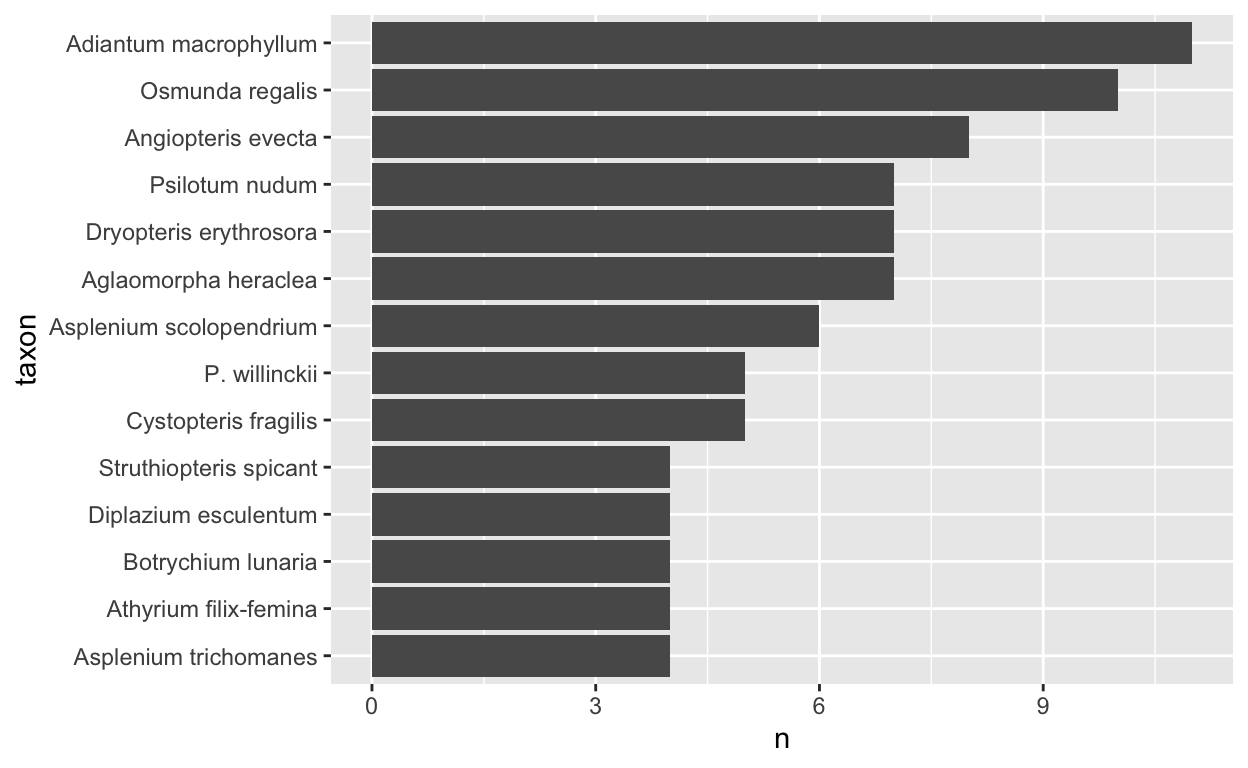
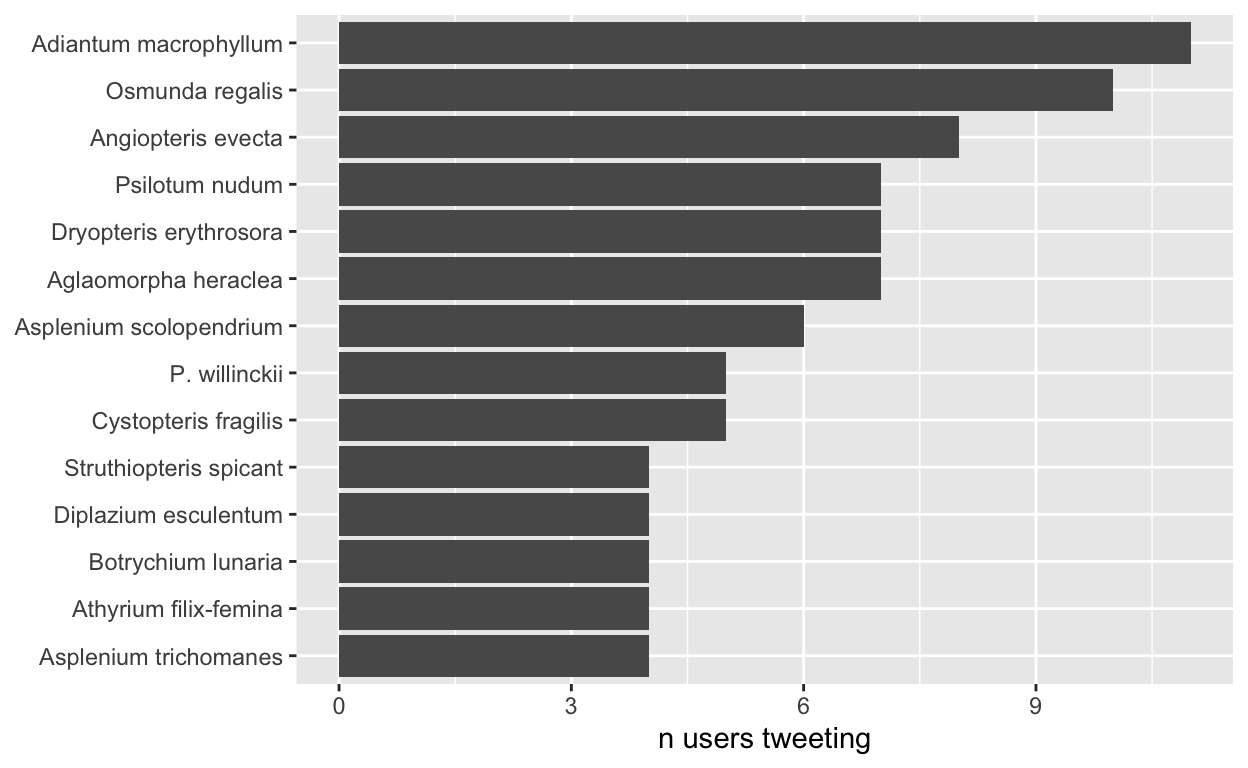
Update fernfriday post

diff --git a/_posts/2022-01-24_friday-ferns-2021/index.html b/_posts/2022-01-24_friday-ferns-2021/index.html
@@ -121,12 +121,12 @@ code span.wa { color: #5e5e5e; font-style: italic; } /* Warning */
   <!--radix_placeholder_rmarkdown_metadata-->
 
   <script type="text/json" id="radix-rmarkdown-metadata">
-  {"type":"list","attributes":{"names":{"type":"character","attributes":{},"value":["title","description","author","date","preview","creative_commons","citation_url","repository_url","output","params","editor_options","draft"]}},"value":[{"type":"character","attributes":{},"value":["#fernfriday 2021"]},{"type":"character","attributes":{},"value":["In which I answer the burning question on everybody's minds: what was\nthe most popular fern of 2021??\n"]},{"type":"list","attributes":{},"value":[{"type":"list","attributes":{"names":{"type":"character","attributes":{},"value":["first_name","last_name","url","affiliation","affiliation_url","orcid_id"]}},"value":[{"type":"character","attributes":{},"value":["Joel"]},{"type":"character","attributes":{},"value":["Nitta"]},{"type":"character","attributes":{},"value":["https://joelnitta.com"]},{"type":"character","attributes":{},"value":["University of Tokyo"]},{"type":"character","attributes":{},"value":["http://iwasakilab.k.u-tokyo.ac.jp"]},{"type":"character","attributes":{},"value":["0000-0003-4719-7472"]}]}]},{"type":"character","attributes":{},"value":["2022-01-24"]},{"type":"character","attributes":{},"value":["img/new-zealand-fantail-3729278_960_720.jpg"]},{"type":"character","attributes":{},"value":["CC BY"]},{"type":"character","attributes":{},"value":["https://joelnitta.com/friday-ferns-2021"]},{"type":"character","attributes":{},"value":["https://github.com/joelnitta/joelnitta-home"]},{"type":"list","attributes":{"names":{"type":"character","attributes":{},"value":["distill::distill_article"]}},"value":[{"type":"list","attributes":{"names":{"type":"character","attributes":{},"value":["self_contained","toc","toc_depth"]}},"value":[{"type":"logical","attributes":{},"value":[false]},{"type":"logical","attributes":{},"value":[true]},{"type":"integer","attributes":{},"value":[3]}]}]},{"type":"list","attributes":{"names":{"type":"character","attributes":{},"value":["slug","date","repo","site"]}},"value":[{"type":"character","attributes":{},"value":["friday-ferns-2021"]},{"type":"character","attributes":{},"value":["2022-01-24"]},{"type":"character","attributes":{},"value":["joelnitta/joelnitta-home"]},{"type":"character","attributes":{},"value":["https://joelnitta.com"]}]},{"type":"list","attributes":{"names":{"type":"character","attributes":{},"value":["chunk_output_type"]}},"value":[{"type":"character","attributes":{},"value":["console"]}]},{"type":"logical","attributes":{},"value":[true]}]}
+  {"type":"list","attributes":{"names":{"type":"character","attributes":{},"value":["title","description","author","date","preview","creative_commons","citation_url","repository_url","output","params","editor_options","draft"]}},"value":[{"type":"character","attributes":{},"value":["#fernfriday 2021"]},{"type":"character","attributes":{},"value":["In which I answer the burning question on everybody's minds: what was\nthe most popular fern of 2021??\n"]},{"type":"list","attributes":{},"value":[{"type":"list","attributes":{"names":{"type":"character","attributes":{},"value":["first_name","last_name","url","affiliation","affiliation_url","orcid_id"]}},"value":[{"type":"character","attributes":{},"value":["Joel"]},{"type":"character","attributes":{},"value":["Nitta"]},{"type":"character","attributes":{},"value":["https://joelnitta.com"]},{"type":"character","attributes":{},"value":["University of Tokyo"]},{"type":"character","attributes":{},"value":["http://iwasakilab.k.u-tokyo.ac.jp"]},{"type":"character","attributes":{},"value":["0000-0003-4719-7472"]}]}]},{"type":"character","attributes":{},"value":["2022-01-24"]},{"type":"character","attributes":{},"value":["img/new-zealand-fantail-3729278_960_720.jpg"]},{"type":"character","attributes":{},"value":["CC BY"]},{"type":"character","attributes":{},"value":["https://joelnitta.com/friday-ferns-2021"]},{"type":"character","attributes":{},"value":["https://github.com/joelnitta/joelnitta-home"]},{"type":"list","attributes":{"names":{"type":"character","attributes":{},"value":["distill::distill_article"]}},"value":[{"type":"list","attributes":{"names":{"type":"character","attributes":{},"value":["self_contained","toc","toc_depth"]}},"value":[{"type":"logical","attributes":{},"value":[false]},{"type":"logical","attributes":{},"value":[true]},{"type":"integer","attributes":{},"value":[3]}]}]},{"type":"list","attributes":{"names":{"type":"character","attributes":{},"value":["slug","date","repo","site"]}},"value":[{"type":"character","attributes":{},"value":["friday-ferns-2021"]},{"type":"character","attributes":{},"value":["2022-01-24"]},{"type":"character","attributes":{},"value":["joelnitta/joelnitta-home"]},{"type":"character","attributes":{},"value":["https://joelnitta.com"]}]},{"type":"list","attributes":{"names":{"type":"character","attributes":{},"value":["chunk_output_type"]}},"value":[{"type":"character","attributes":{},"value":["console"]}]},{"type":"logical","attributes":{},"value":[false]}]}
   </script>
   <!--/radix_placeholder_rmarkdown_metadata-->
   
   <script type="text/json" id="radix-resource-manifest">
-  {"type":"character","attributes":{},"value":["ff-2021-tweet-content.txt","ff-2021-tweet-content.txt_gntagger/input.txt","ff-2021-tweet-content.txt_gntagger/meta.json","ff-2021-tweet-content.txt_gntagger/names.json","ff-2021-tweets.json","gntagger","img/gntagger.png","img/new-zealand-fantail-3729278_960_720.jpg","index_files/anchor-4.2.2/anchor.min.js","index_files/bowser-1.9.3/bowser.min.js","index_files/clipboard-2.0.6/clipboard.min.js","index_files/distill-2.2.21/template.v2.js","index_files/figure-html5/hannah-tweet-1.png","index_files/figure-html5/top-species-1.png","index_files/figure-html5/top-species-users-1.png","index_files/figure-html5/unnamed-chunk-1-1.png","index_files/font-awesome-5.1.0/css/all.css","index_files/font-awesome-5.1.0/css/v4-shims.css","index_files/font-awesome-5.1.0/webfonts/fa-brands-400.eot","index_files/font-awesome-5.1.0/webfonts/fa-brands-400.svg","index_files/font-awesome-5.1.0/webfonts/fa-brands-400.ttf","index_files/font-awesome-5.1.0/webfonts/fa-brands-400.woff","index_files/font-awesome-5.1.0/webfonts/fa-brands-400.woff2","index_files/font-awesome-5.1.0/webfonts/fa-regular-400.eot","index_files/font-awesome-5.1.0/webfonts/fa-regular-400.svg","index_files/font-awesome-5.1.0/webfonts/fa-regular-400.ttf","index_files/font-awesome-5.1.0/webfonts/fa-regular-400.woff","index_files/font-awesome-5.1.0/webfonts/fa-regular-400.woff2","index_files/font-awesome-5.1.0/webfonts/fa-solid-900.eot","index_files/font-awesome-5.1.0/webfonts/fa-solid-900.svg","index_files/font-awesome-5.1.0/webfonts/fa-solid-900.ttf","index_files/font-awesome-5.1.0/webfonts/fa-solid-900.woff","index_files/font-awesome-5.1.0/webfonts/fa-solid-900.woff2","index_files/header-attrs-2.11/header-attrs.js","index_files/jquery-3.6.0/jquery-3.6.0.js","index_files/jquery-3.6.0/jquery-3.6.0.min.js","index_files/jquery-3.6.0/jquery-3.6.0.min.map","index_files/popper-2.6.0/popper.min.js","index_files/tippy-6.2.7/tippy-bundle.umd.min.js","index_files/tippy-6.2.7/tippy-light-border.css","index_files/tippy-6.2.7/tippy.css","index_files/tippy-6.2.7/tippy.umd.min.js","index_files/twitter-widget-0.0.1/widgets.js","index_files/webcomponents-2.0.0/webcomponents.js","index_files/xaringanExtra-clipboard-0.2.6/xaringanExtra-clipboard.css","index_files/xaringanExtra-clipboard-0.2.6/xaringanExtra-clipboard.js"]}
+  {"type":"character","attributes":{},"value":["ff-2021-tweet-content.txt","ff-2021-tweet-content.txt_gntagger/input.txt","ff-2021-tweet-content.txt_gntagger/meta.json","ff-2021-tweet-content.txt_gntagger/names.json","ff-2021-tweets.json","gntagger","img/gntagger.png","img/new-zealand-fantail-3729278_960_720.jpg","index_files/anchor-4.2.2/anchor.min.js","index_files/bowser-1.9.3/bowser.min.js","index_files/clipboard-2.0.6/clipboard.min.js","index_files/distill-2.2.21/template.v2.js","index_files/figure-html5/hannah-tweet-1.png","index_files/figure-html5/prolific-tweeters-1.png","index_files/figure-html5/species-distribution-1.png","index_files/figure-html5/top-genera-users-1.png","index_files/figure-html5/top-species-1.png","index_files/figure-html5/top-species-users-1.png","index_files/figure-html5/unnamed-chunk-1-1.png","index_files/font-awesome-5.1.0/css/all.css","index_files/font-awesome-5.1.0/css/v4-shims.css","index_files/font-awesome-5.1.0/webfonts/fa-brands-400.eot","index_files/font-awesome-5.1.0/webfonts/fa-brands-400.svg","index_files/font-awesome-5.1.0/webfonts/fa-brands-400.ttf","index_files/font-awesome-5.1.0/webfonts/fa-brands-400.woff","index_files/font-awesome-5.1.0/webfonts/fa-brands-400.woff2","index_files/font-awesome-5.1.0/webfonts/fa-regular-400.eot","index_files/font-awesome-5.1.0/webfonts/fa-regular-400.svg","index_files/font-awesome-5.1.0/webfonts/fa-regular-400.ttf","index_files/font-awesome-5.1.0/webfonts/fa-regular-400.woff","index_files/font-awesome-5.1.0/webfonts/fa-regular-400.woff2","index_files/font-awesome-5.1.0/webfonts/fa-solid-900.eot","index_files/font-awesome-5.1.0/webfonts/fa-solid-900.svg","index_files/font-awesome-5.1.0/webfonts/fa-solid-900.ttf","index_files/font-awesome-5.1.0/webfonts/fa-solid-900.woff","index_files/font-awesome-5.1.0/webfonts/fa-solid-900.woff2","index_files/header-attrs-2.11/header-attrs.js","index_files/jquery-3.6.0/jquery-3.6.0.js","index_files/jquery-3.6.0/jquery-3.6.0.min.js","index_files/jquery-3.6.0/jquery-3.6.0.min.map","index_files/popper-2.6.0/popper.min.js","index_files/tippy-6.2.7/tippy-bundle.umd.min.js","index_files/tippy-6.2.7/tippy-light-border.css","index_files/tippy-6.2.7/tippy.css","index_files/tippy-6.2.7/tippy.umd.min.js","index_files/twitter-widget-0.0.1/widgets.js","index_files/webcomponents-2.0.0/webcomponents.js","index_files/xaringanExtra-clipboard-0.2.6/xaringanExtra-clipboard.css","index_files/xaringanExtra-clipboard-0.2.6/xaringanExtra-clipboard.js"]}
   </script>
   <!--radix_placeholder_navigation_in_header-->
   <!--/radix_placeholder_navigation_in_header-->
@@ -1512,7 +1512,7 @@ code span.wa { color: #5e5e5e; font-style: italic; } /* Warning */
 <li><a href="#extracting-scientific-names-with-gntagger">Extracting scientific names with gntagger</a>
 <ul>
 <li><a href="#tagging-names">Tagging names</a></li>
-<li><a href="#reading-gntagger-output-back-into-r">Reading gntagger output back into R</a></li>
+<li><a href="#loading-gntagger-output-into-r">Loading gntagger output into R</a></li>
 </ul></li>
 <li><a href="#data-analysis-finally">Data analysis (finally!)</a></li>
 </ul>
@@ -1548,6 +1548,7 @@ Figure 1: Image by <a href="https://pixabay.com/users/jewelie108-2884314/">jewel
 <div class="layout-chunk" data-layout="l-body">
 <div class="sourceCode">
 <pre class="sourceCode r"><code class="sourceCode r"><span class='kw'><a href='https://rdrr.io/r/base/library.html'>library</a></span><span class='op'>(</span><span class='va'><a href='https://tidyverse.tidyverse.org'>tidyverse</a></span><span class='op'>)</span>
+<span class='kw'><a href='https://rdrr.io/r/base/library.html'>library</a></span><span class='op'>(</span><span class='va'><a href='https://github.com/slowkow/ggrepel'>ggrepel</a></span><span class='op'>)</span>
 <span class='kw'><a href='https://rdrr.io/r/base/library.html'>library</a></span><span class='op'>(</span><span class='va'><a href='https://github.com/sfirke/janitor'>janitor</a></span><span class='op'>)</span>
 <span class='kw'><a href='https://rdrr.io/r/base/library.html'>library</a></span><span class='op'>(</span><span class='va'><a href='https://github.com/dgrtwo/fuzzyjoin'>fuzzyjoin</a></span><span class='op'>)</span>
 </code></pre>
@@ -1712,44 +1713,49 @@ $ cashtags         &lt;lgl&gt; NA, NA, NA, NA, NA, NA, NA, NA, NA, NA,…</code>
 <pre><code>gntagger ff-2021-tweet-content.txt</code></pre>
 <p>You should see a screen that looks like this:</p>
 <p><img src="img/gntagger.png" /></p>
-<p><code>gntagger</code> takes a “android” approach to tagging species names. It first uses its own algorithm to automatically identify all possible species names, then has a very simple user interface (UI) so the user can confirm or reject each candidate name rapidly. According to the <a href="https://github.com/gnames/gntagger#gntagger-"><code>gntagger</code> docs</a>, you should be able to get through about “4000 names spread over 600 pages in about 2 hours”.</p>
+<p><code>gntagger</code> takes a “android” approach to tagging species names. It first uses its own algorithm to automatically identify all possible species names, then <a href="https://github.com/gnames/gntagger#user-interface">it has a simple user interface</a> so the user can confirm or reject each candidate name rapidly. According to the <a href="https://github.com/gnames/gntagger#gntagger-"><code>gntagger</code> docs</a>, you should be able to get through about “4000 names spread over 600 pages in about 2 hours”. It took me around 10–15 min. for this dataset, which included 664 candidate names to process.</p>
 <p>It saves the intermediate output to a folder named after the input file, in this case <code>ff-2021-tweet-content.txt_gntagger</code>.</p>
-<h3 id="reading-gntagger-output-back-into-r">Reading gntagger output back into R</h3>
+<h3 id="loading-gntagger-output-into-r">Loading gntagger output into R</h3>
 <p>I recommend trying out <code>gntagger</code> to see how it works—it definitely looks great for parsing names from old literature!</p>
 <p>But you don’t have to go through all of the names yourself. In fact, <code>gntagger</code>’s initial “guesses” are pretty darn good, and can be used as-is for a rough analysis. Or, you can download the cleaned up version from FIXME: ADD LINK.</p>
 <p>Let’s read in the <code>gntagger</code> results, which are again JSON:</p>
 <div class="layout-chunk" data-layout="l-body">
 <div class="sourceCode">
-<pre class="sourceCode r"><code class="sourceCode r"><span class='va'>ff_species_raw</span> <span class='op'>&lt;-</span> <span class='fu'>jsonlite</span><span class='fu'>::</span><span class='fu'><a href='https://rdrr.io/pkg/jsonlite/man/fromJSON.html'>fromJSON</a></span><span class='op'>(</span><span class='st'>"ff-2021-tweet-content.txt_gntagger/names.json"</span><span class='op'>)</span>
+<pre class="sourceCode r"><code class="sourceCode r"><span class='va'>ff_taxa_raw</span> <span class='op'>&lt;-</span> <span class='fu'>jsonlite</span><span class='fu'>::</span><span class='fu'><a href='https://rdrr.io/pkg/jsonlite/man/fromJSON.html'>fromJSON</a></span><span class='op'>(</span><span class='st'>"ff-2021-tweet-content.txt_gntagger/names.json"</span><span class='op'>)</span>
 
-<span class='va'>ff_species</span> <span class='op'>&lt;-</span> <span class='va'>ff_species_raw</span><span class='op'>[[</span><span class='st'>"names"</span><span class='op'>]</span><span class='op'>]</span> <span class='op'>%&gt;%</span> 
+<span class='va'>ff_taxa</span> <span class='op'>&lt;-</span> <span class='va'>ff_taxa_raw</span><span class='op'>[[</span><span class='st'>"names"</span><span class='op'>]</span><span class='op'>]</span> <span class='op'>%&gt;%</span> 
   <span class='fu'>as_tibble</span><span class='op'>(</span><span class='op'>)</span> <span class='op'>%&gt;%</span>
     <span class='co'># I'll call the name output by gntagger "taxon", since</span>
   <span class='co'># not all of them are species</span>
-  <span class='fu'>select</span><span class='op'>(</span><span class='va'>type</span>, taxon <span class='op'>=</span> <span class='va'>name</span>, <span class='va'>start</span>, <span class='va'>end</span><span class='op'>)</span>
+  <span class='fu'>select</span><span class='op'>(</span><span class='va'>type</span>, <span class='va'>annotation</span>, taxon <span class='op'>=</span> <span class='va'>name</span>, <span class='va'>start</span>, <span class='va'>end</span><span class='op'>)</span>
 
-<span class='va'>ff_species</span>
+<span class='va'>ff_taxa</span>
 </code></pre>
 </div>
 </div>
 <div class="layout-chunk" data-layout="l-body">
-<pre><code># A tibble: 664 × 4
-   type             taxon                  start   end
-   &lt;chr&gt;            &lt;chr&gt;                  &lt;int&gt; &lt;int&gt;
- 1 Binomial         Elaphoglossum crinitum   430   452
- 2 Binomial         Aglaomorpha heraclea    1230  1250
- 3 Binomial         Arachniodes standishii  1325  1347
- 4 Uninomial        Platycerium             1398  1409
- 5 PossibleBinomial P. alcicorne            1562  1574
- 6 Binomial         Angiopteris evecta      2457  2475
- 7 Binomial         Dryopteris shibipedis   2508  2529
- 8 Uninomial        Pyrrosia                2914  2923
- 9 Binomial         Doodia australis        3161  3178
-10 Binomial         Lastreopsis hispida     3189  3209
-# … with 654 more rows</code></pre>
+<pre><code># A tibble: 630 × 5
+   type             annotation taxon                  start   end
+   &lt;chr&gt;            &lt;chr&gt;      &lt;chr&gt;                  &lt;int&gt; &lt;int&gt;
+ 1 Binomial         Accepted   Elaphoglossum crinitum   430   452
+ 2 Binomial         Accepted   Aglaomorpha heraclea    1230  1250
+ 3 Binomial         Accepted   Arachniodes standishii  1325  1347
+ 4 Uninomial        Genus      Platycerium             1398  1409
+ 5 PossibleBinomial Accepted   P. alcicorne            1562  1574
+ 6 Binomial         Accepted   Angiopteris evecta      2457  2475
+ 7 Binomial         Accepted   Dryopteris shibipedis   2508  2529
+ 8 Uninomial        Genus      Pyrrosia                2914  2923
+ 9 Binomial         Accepted   Doodia australis        3161  3178
+10 Binomial         Accepted   Lastreopsis hispida     3189  3209
+# … with 620 more rows</code></pre>
 </div>
-<p>The tricky part here is that <code>gntagger</code> outputs location by character position, not line.</p>
-<p>So we need to figure out which characters match which lines, which in turn match tweets…</p>
+<p>A bit about the column names we are reading in from <code>gntagger</code>:</p>
+<ul>
+<li><code>type</code> is something automatically defined by <code>gntagger</code>. I’m not quite sure what it means… but I’m guessing “Binomial” indicates that the name is a species.</li>
+<li><code>annotation</code> is the annotation I selected during the tagging process. It includes values “Accepted”, “Genus”, “NotName”, “Species”, and “Uninomial”. It wasn’t totally clear to me how to apply these during the tagging part. I mostly just hit the forward arrow for names that looked like species, so those are annotated as “Accepted”. Towards the end I noticed I could select “Species”, so a few are annotated as “Species” instead of “Accepted” <a href="#fn6" class="footnote-ref" id="fnref6" role="doc-noteref"><sup>6</sup></a>.</li>
+<li><code>start</code> and <code>end</code> indicate the character position in the raw text matching the start and end of the name.</li>
+</ul>
+<p>The next step is to use the <code>start</code> and <code>end</code> fields to match species names to tweets. For that, we’ll need a tibble with the start and end position of each tweet.</p>
 <div class="layout-chunk" data-layout="l-body">
 <div class="sourceCode">
 <pre class="sourceCode r"><code class="sourceCode r"><span class='va'>ff_tweets_start_end</span> <span class='op'>&lt;-</span>
@@ -1788,13 +1794,13 @@ $ cashtags         &lt;lgl&gt; NA, NA, NA, NA, NA, NA, NA, NA, NA, NA,…</code>
 <p>Now we can use the <code>fuzzyjoin</code> package to join the species names to the tweets by position.</p>
 <div class="layout-chunk" data-layout="l-body">
 <div class="sourceCode">
-<pre class="sourceCode r"><code class="sourceCode r"><span class='va'>ff_tweets_species</span> <span class='op'>&lt;-</span>
+<pre class="sourceCode r"><code class="sourceCode r"><span class='va'>ff_tweets_taxa</span> <span class='op'>&lt;-</span>
 <span class='va'>ff_tweets</span> <span class='op'>%&gt;%</span>
   <span class='fu'>left_join</span><span class='op'>(</span><span class='va'>ff_tweets_start_end</span>, by <span class='op'>=</span> <span class='st'>"id"</span><span class='op'>)</span> <span class='op'>%&gt;%</span>
   <span class='co'># interval_left_join requires the Bioconductor IRanges package to be installed</span>
   <span class='co'># and joins by columns "start" and "end" by default</span>
   <span class='fu'><a href='https://rdrr.io/pkg/fuzzyjoin/man/interval_join.html'>interval_left_join</a></span><span class='op'>(</span>
-    <span class='va'>ff_species</span>
+    <span class='va'>ff_taxa</span>
   <span class='op'>)</span> <span class='op'>%&gt;%</span>
   <span class='fu'>select</span><span class='op'>(</span><span class='op'>-</span><span class='fu'>matches</span><span class='op'>(</span><span class='st'>"start|end"</span><span class='op'>)</span><span class='op'>)</span> <span class='op'>%&gt;%</span>
   <span class='co'># Drop tweets without any fern names mentioned</span>
@@ -1805,10 +1811,10 @@ $ cashtags         &lt;lgl&gt; NA, NA, NA, NA, NA, NA, NA, NA, NA, NA,…</code>
 <p>Let’s take a peek at the results.</p>
 <div class="layout-chunk" data-layout="l-body">
 <div class="sourceCode">
-<pre class="sourceCode r"><code class="sourceCode r"><span class='fu'>select</span><span class='op'>(</span><span class='va'>ff_tweets_species</span>, <span class='va'>content</span>, <span class='va'>taxon</span><span class='op'>)</span>
+<pre class="sourceCode r"><code class="sourceCode r"><span class='fu'>select</span><span class='op'>(</span><span class='va'>ff_tweets_taxa</span>, <span class='va'>content</span>, <span class='va'>taxon</span><span class='op'>)</span>
 </code></pre>
 </div>
-<pre><code># A tibble: 761 × 2
+<pre><code># A tibble: 722 × 2
    content                                            taxon           
    &lt;chr&gt;                                              &lt;chr&gt;           
  1 &quot;Wishing all a happy, safe and peacefull #FernFri… Elaphoglossum c…
@@ -1821,52 +1827,149 @@ $ cashtags         &lt;lgl&gt; NA, NA, NA, NA, NA, NA, NA, NA, NA, NA,…</code>
  8 &quot;シビイタチシダ Dryopteris shibipedis #Fernfriday… Dryopteris shib…
  9 &quot;✌\n\n #Fernfriday https://t.co/LdQgp4Wcw0&quot;        Dryopteris shib…
 10 &quot;I told my friend that if I ever had a kid, I wou… Pyrrosia        
-# … with 751 more rows</code></pre>
+# … with 712 more rows</code></pre>
 </div>
-<p>Yay! We’ve got species names mapped to tweets (and user ID, etc). Notice that some tweets now appear duplicated, since our data are have one row per species mentioned, and some tweets may include multiple species.</p>
+<p>Yay! We’ve got fern names mapped to tweets (and user ID, etc). Notice that some tweets now appear duplicated, since our data are have one row per fern name mentioned, and some tweets may include multiple names.</p>
 <h2 id="data-analysis-finally">Data analysis (finally!)</h2>
 <p>OK, we can finally analyze the data and see <strong>who is the most popular fern of 2021</strong>!</p>
-<p>I guess a simple approach would be to see what fern got the most tweets?</p>
+<p>Like any good data analysis, let’s check the distribution of the data first.</p>
 <div class="layout-chunk" data-layout="l-body">
 <div class="sourceCode">
-<pre class="sourceCode r"><code class="sourceCode r"><span class='va'>ff_tweets_species</span> <span class='op'>%&gt;%</span>
+<pre class="sourceCode r"><code class="sourceCode r"><span class='va'>ff_tweets_taxa</span> <span class='op'>%&gt;%</span>
   <span class='co'># Filter to only taxa that look like species names</span>
   <span class='fu'><a href='https://rdrr.io/r/stats/filter.html'>filter</a></span><span class='op'>(</span><span class='fu'>str_detect</span><span class='op'>(</span><span class='va'>type</span>, <span class='st'>"Binomial"</span><span class='op'>)</span><span class='op'>)</span> <span class='op'>%&gt;%</span>
-  <span class='co'># Just look at the top 10</span>
-  <span class='fu'>mutate</span><span class='op'>(</span>taxon <span class='op'>=</span> <span class='fu'>fct_lump_n</span><span class='op'>(</span><span class='va'>taxon</span>, n <span class='op'>=</span> <span class='fl'>10</span><span class='op'>)</span><span class='op'>)</span> <span class='op'>%&gt;%</span>
   <span class='fu'>count</span><span class='op'>(</span><span class='va'>taxon</span><span class='op'>)</span> <span class='op'>%&gt;%</span>
-  <span class='fu'>mutate</span><span class='op'>(</span>taxon <span class='op'>=</span> <span class='fu'>fct_reorder</span><span class='op'>(</span><span class='va'>taxon</span>, <span class='va'>n</span><span class='op'>)</span><span class='op'>)</span> <span class='op'>%&gt;%</span>
-  <span class='fu'>ggplot</span><span class='op'>(</span><span class='fu'>aes</span><span class='op'>(</span>x <span class='op'>=</span> <span class='va'>n</span>, y <span class='op'>=</span> <span class='va'>taxon</span><span class='op'>)</span><span class='op'>)</span> <span class='op'>+</span> <span class='fu'>geom_col</span><span class='op'>(</span><span class='op'>)</span>
+  <span class='fu'>ggplot</span><span class='op'>(</span><span class='fu'>aes</span><span class='op'>(</span>x <span class='op'>=</span> <span class='va'>n</span>, fill <span class='op'>=</span> <span class='va'>n</span> <span class='op'>==</span> <span class='fl'>1</span><span class='op'>)</span><span class='op'>)</span> <span class='op'>+</span> 
+  <span class='fu'>geom_histogram</span><span class='op'>(</span>bins <span class='op'>=</span> <span class='fl'>20</span><span class='op'>)</span> <span class='op'>+</span>
+  <span class='fu'>labs</span><span class='op'>(</span>fill <span class='op'>=</span> <span class='st'>"Singleton"</span><span class='op'>)</span> <span class='op'>+</span>
+  <span class='fu'>scale_fill_viridis_d</span><span class='op'>(</span><span class='op'>)</span> <span class='op'>+</span>
+  <span class='fu'>labs</span><span class='op'>(</span>x <span class='op'>=</span> <span class='st'>"n species"</span>, y <span class='op'>=</span> <span class='st'>"n tweets"</span><span class='op'>)</span>
 </code></pre>
 </div>
-<p><img src="index_files/figure-html5/top-species-1.png" width="624" /></p>
+<div class="figure"><span id="fig:species-distribution"></span>
+<img src="index_files/figure-html5/species-distribution-1.png" alt="Histogram of species occurrences in tweets" width="624" />
+<p class="caption">
+Figure 2: Histogram of species occurrences in tweets
+</p>
 </div>
-<p>That’s… not that interesting. Probably because very few species are actually tweeted multiple times. Also, it’s possible that some users are tweeting the same species multiple times, which is kind of unfair right?</p>
-<p>Let’s just look at the number of users tweeting about each species, and dump the “Other” category.</p>
+</div>
+<p>So the vast majority of species are only tweeted about once (“singletons” in the plot), then there’s a longer tail of a much smaller number of species that receive multiple tweets. Sort of like ecology—<a href="https://methodsblog.com/2021/04/26/fuzzyq-the-commonness-of-rarity/">common species are rare, and rare species are common</a>. Neat.</p>
+<p>Now that we have a feel for how the data are distributed, let’s see who are the rare species with multiple tweets. It’s possible that some users are tweeting the same species multiple times, and that seems sort of unfair right? So we will just consider one tweet per species per user, and look at the top 10.</p>
 <div class="layout-chunk" data-layout="l-body">
 <div class="sourceCode">
-<pre class="sourceCode r"><code class="sourceCode r"><span class='va'>ff_tweets_species</span> <span class='op'>%&gt;%</span> 
+<pre class="sourceCode r"><code class="sourceCode r"><span class='va'>ff_tweets_taxa</span> <span class='op'>%&gt;%</span> 
   <span class='co'># Filter to only taxa that look like species names</span>
   <span class='fu'><a href='https://rdrr.io/r/stats/filter.html'>filter</a></span><span class='op'>(</span><span class='fu'>str_detect</span><span class='op'>(</span><span class='va'>type</span>, <span class='st'>"Binomial"</span><span class='op'>)</span><span class='op'>)</span> <span class='op'>%&gt;%</span>
   <span class='co'># Only allow one "vote" per species per user</span>
   <span class='fu'>select</span><span class='op'>(</span><span class='va'>taxon</span>, <span class='va'>username</span><span class='op'>)</span> <span class='op'>%&gt;%</span> 
   <span class='fu'><a href='https://rdrr.io/r/base/unique.html'>unique</a></span><span class='op'>(</span><span class='op'>)</span> <span class='op'>%&gt;%</span> 
   <span class='co'># Just look at the top 10</span>
+  <span class='co'># fct_lump_n() lumps the remainder into "Other"</span>
   <span class='fu'>mutate</span><span class='op'>(</span>taxon <span class='op'>=</span> <span class='fu'>fct_lump_n</span><span class='op'>(</span><span class='va'>taxon</span>, n <span class='op'>=</span> <span class='fl'>10</span><span class='op'>)</span><span class='op'>)</span> <span class='op'>%&gt;%</span>
   <span class='co'># Exclude "Other"</span>
   <span class='fu'><a href='https://rdrr.io/r/stats/filter.html'>filter</a></span><span class='op'>(</span><span class='va'>taxon</span> <span class='op'>!=</span> <span class='st'>"Other"</span><span class='op'>)</span> <span class='op'>%&gt;%</span>
   <span class='fu'>count</span><span class='op'>(</span><span class='va'>taxon</span><span class='op'>)</span> <span class='op'>%&gt;%</span>
   <span class='fu'>mutate</span><span class='op'>(</span>taxon <span class='op'>=</span> <span class='fu'>fct_reorder</span><span class='op'>(</span><span class='va'>taxon</span>, <span class='va'>n</span><span class='op'>)</span><span class='op'>)</span> <span class='op'>%&gt;%</span>
-  <span class='fu'>ggplot</span><span class='op'>(</span><span class='fu'>aes</span><span class='op'>(</span>x <span class='op'>=</span> <span class='va'>n</span>, y <span class='op'>=</span> <span class='va'>taxon</span><span class='op'>)</span><span class='op'>)</span> <span class='op'>+</span> <span class='fu'>geom_col</span><span class='op'>(</span><span class='op'>)</span>
+  <span class='fu'>ggplot</span><span class='op'>(</span><span class='fu'>aes</span><span class='op'>(</span>x <span class='op'>=</span> <span class='va'>n</span>, y <span class='op'>=</span> <span class='va'>taxon</span><span class='op'>)</span><span class='op'>)</span> <span class='op'>+</span> 
+  <span class='fu'>geom_col</span><span class='op'>(</span><span class='op'>)</span> <span class='op'>+</span>
+  <span class='fu'>labs</span><span class='op'>(</span>x <span class='op'>=</span> <span class='st'>"n users tweeting"</span><span class='op'>)</span> <span class='op'>+</span>
+  <span class='fu'>theme</span><span class='op'>(</span>axis.title.y <span class='op'>=</span> <span class='fu'>element_blank</span><span class='op'>(</span><span class='op'>)</span><span class='op'>)</span>
 </code></pre>
 </div>
-<p><img src="index_files/figure-html5/top-species-users-1.png" width="624" /></p>
+<div class="figure"><span id="fig:top-species-users"></span>
+<img src="index_files/figure-html5/top-species-users-1.png" alt="Top 10 species by number of users tweeting" width="624" />
+<p class="caption">
+Figure 3: Top 10 species by number of users tweeting
+</p>
+</div>
 </div>
 <p>Cool! Those are some solid picks. And the top 10 species here all include &gt; 3 three unique users tweeting about them.</p>
+<p>What about the most popular genera?</p>
+<div class="layout-chunk" data-layout="l-body">
+<div class="sourceCode">
+<pre class="sourceCode r"><code class="sourceCode r"><span class='va'>ff_tweets_taxa</span> <span class='op'>%&gt;%</span> 
+  <span class='co'># Split species names into genus and specific epithet</span>
+  <span class='fu'>separate</span><span class='op'>(</span>
+    <span class='va'>taxon</span>, into <span class='op'>=</span> <span class='fu'><a href='https://rdrr.io/r/base/c.html'>c</a></span><span class='op'>(</span><span class='st'>"genus"</span>, <span class='st'>"specific_epithet"</span><span class='op'>)</span>, sep <span class='op'>=</span> <span class='st'>" "</span>,
+    fill <span class='op'>=</span> <span class='st'>"right"</span>, extra <span class='op'>=</span> <span class='st'>"drop"</span><span class='op'>)</span> <span class='op'>%&gt;%</span>
+  <span class='co'># Exclude names that I annotated as "Uninomial" (family names)</span>
+  <span class='fu'><a href='https://rdrr.io/r/stats/filter.html'>filter</a></span><span class='op'>(</span><span class='va'>annotation</span> <span class='op'>!=</span> <span class='st'>"Uninomial"</span><span class='op'>)</span> <span class='op'>%&gt;%</span>
+  <span class='co'># Exclude abbreviated genera ("P.", etc)</span>
+  <span class='fu'>mutate</span><span class='op'>(</span>n_genus_char <span class='op'>=</span> <span class='fu'><a href='https://rdrr.io/r/base/nchar.html'>nchar</a></span><span class='op'>(</span><span class='va'>genus</span><span class='op'>)</span><span class='op'>)</span> <span class='op'>%&gt;%</span>
+  <span class='fu'><a href='https://rdrr.io/r/stats/filter.html'>filter</a></span><span class='op'>(</span><span class='va'>n_genus_char</span> <span class='op'>&gt;</span> <span class='fl'>3</span><span class='op'>)</span> <span class='op'>%&gt;%</span>
+  <span class='co'># Only allow one "vote" per species per user</span>
+  <span class='fu'>select</span><span class='op'>(</span><span class='va'>genus</span>, <span class='va'>username</span><span class='op'>)</span> <span class='op'>%&gt;%</span> 
+  <span class='fu'><a href='https://rdrr.io/r/base/unique.html'>unique</a></span><span class='op'>(</span><span class='op'>)</span> <span class='op'>%&gt;%</span> 
+  <span class='co'># Just look at the top 10</span>
+  <span class='co'># fct_lump_n() lumps the remainder into "Other"</span>
+  <span class='fu'>mutate</span><span class='op'>(</span>genus <span class='op'>=</span> <span class='fu'>fct_lump_n</span><span class='op'>(</span><span class='va'>genus</span>, n <span class='op'>=</span> <span class='fl'>10</span><span class='op'>)</span><span class='op'>)</span> <span class='op'>%&gt;%</span>
+  <span class='co'># Exclude "Other"</span>
+  <span class='fu'><a href='https://rdrr.io/r/stats/filter.html'>filter</a></span><span class='op'>(</span><span class='va'>genus</span> <span class='op'>!=</span> <span class='st'>"Other"</span><span class='op'>)</span> <span class='op'>%&gt;%</span>
+  <span class='fu'>count</span><span class='op'>(</span><span class='va'>genus</span><span class='op'>)</span> <span class='op'>%&gt;%</span>
+  <span class='fu'>mutate</span><span class='op'>(</span>genus <span class='op'>=</span> <span class='fu'>fct_reorder</span><span class='op'>(</span><span class='va'>genus</span>, <span class='va'>n</span><span class='op'>)</span><span class='op'>)</span> <span class='op'>%&gt;%</span>
+  <span class='fu'>ggplot</span><span class='op'>(</span><span class='fu'>aes</span><span class='op'>(</span>x <span class='op'>=</span> <span class='va'>n</span>, y <span class='op'>=</span> <span class='va'>genus</span><span class='op'>)</span><span class='op'>)</span> <span class='op'>+</span> 
+  <span class='fu'>geom_col</span><span class='op'>(</span><span class='op'>)</span> <span class='op'>+</span>
+  <span class='fu'>labs</span><span class='op'>(</span>x <span class='op'>=</span> <span class='st'>"n users tweeting"</span><span class='op'>)</span> <span class='op'>+</span>
+  <span class='fu'>theme</span><span class='op'>(</span>axis.title.y <span class='op'>=</span> <span class='fu'>element_blank</span><span class='op'>(</span><span class='op'>)</span><span class='op'>)</span>
+</code></pre>
+</div>
+<div class="figure"><span id="fig:top-genera-users"></span>
+<img src="index_files/figure-html5/top-genera-users-1.png" alt="Top 10 genera by number of users tweeting" width="624" />
+<p class="caption">
+Figure 4: Top 10 genera by number of users tweeting
+</p>
+</div>
+</div>
+<p>The trends change a bit: although no single <em>Asplenium</em> species gets lots of tweets, the genus as whole does. Cool!</p>
+<p>There is obviously a lot that can be done with twitter data, and text data in general. I won’t be going there. But I just want to look at one more thing…</p>
+<p>Who are the most prolific <a href="https://twitter.com/hashtag/fernfriday?src=hashtag_click">#fernfriday</a> tweeters?</p>
+<div class="layout-chunk" data-layout="l-body-outset">
+<div class="sourceCode">
+<pre class="sourceCode r"><code class="sourceCode r"><span class='va'>ff_user_count</span> <span class='op'>&lt;-</span>
+  <span class='va'>ff_tweets</span> <span class='op'>%&gt;%</span>
+  <span class='fu'>count</span><span class='op'>(</span><span class='va'>username</span><span class='op'>)</span> <span class='op'>%&gt;%</span>
+  <span class='fu'>mutate</span><span class='op'>(</span>username <span class='op'>=</span> <span class='fu'>fct_reorder</span><span class='op'>(</span><span class='va'>username</span>, <span class='va'>n</span><span class='op'>)</span><span class='op'>)</span>
+
+<span class='fu'>ggplot</span><span class='op'>(</span><span class='va'>ff_user_count</span>, <span class='fu'>aes</span><span class='op'>(</span>x <span class='op'>=</span> <span class='va'>n</span>, y <span class='op'>=</span> <span class='va'>username</span><span class='op'>)</span><span class='op'>)</span> <span class='op'>+</span>
+  <span class='fu'>geom_col</span><span class='op'>(</span><span class='fu'>aes</span><span class='op'>(</span>fill <span class='op'>=</span> <span class='va'>n</span> <span class='op'>==</span> <span class='fl'>1</span><span class='op'>)</span><span class='op'>)</span> <span class='op'>+</span>
+  <span class='co'># Only label the top 10</span>
+  <span class='fu'><a href='https://rdrr.io/pkg/ggrepel/man/geom_text_repel.html'>geom_label_repel</a></span><span class='op'>(</span>
+    data <span class='op'>=</span> <span class='fu'>slice_max</span><span class='op'>(</span><span class='va'>ff_user_count</span>, order_by <span class='op'>=</span> <span class='va'>n</span>, n <span class='op'>=</span> <span class='fl'>10</span><span class='op'>)</span>, 
+    <span class='fu'>aes</span><span class='op'>(</span>label <span class='op'>=</span> <span class='va'>username</span><span class='op'>)</span>,
+    force <span class='op'>=</span> <span class='fl'>3</span>,
+    box.padding <span class='op'>=</span> <span class='fl'>0.5</span>,
+    min.segment.length <span class='op'>=</span> <span class='fl'>0</span>, 
+    max.overlaps <span class='op'>=</span> <span class='cn'>Inf</span>,
+    direction <span class='op'>=</span> <span class='st'>"y"</span><span class='op'>)</span> <span class='op'>+</span>
+  <span class='co'># ... plus me</span>
+  <span class='fu'><a href='https://rdrr.io/pkg/ggrepel/man/geom_text_repel.html'>geom_label_repel</a></span><span class='op'>(</span>
+    data <span class='op'>=</span> <span class='fu'><a href='https://rdrr.io/r/stats/filter.html'>filter</a></span><span class='op'>(</span><span class='va'>ff_user_count</span>, <span class='va'>username</span> <span class='op'>==</span> <span class='st'>"joel_nitta"</span><span class='op'>)</span>,
+    fill <span class='op'>=</span> <span class='st'>"light blue"</span>,
+    min.segment.length <span class='op'>=</span> <span class='fl'>0</span>,
+    <span class='fu'>aes</span><span class='op'>(</span>label <span class='op'>=</span> <span class='va'>username</span><span class='op'>)</span><span class='op'>)</span> <span class='op'>+</span>
+  <span class='fu'>scale_fill_viridis_d</span><span class='op'>(</span><span class='op'>)</span> <span class='op'>+</span>
+  <span class='fu'>scale_x_continuous</span><span class='op'>(</span>expand <span class='op'>=</span> <span class='fu'><a href='https://rdrr.io/r/base/c.html'>c</a></span><span class='op'>(</span><span class='fl'>0</span>,<span class='fl'>0</span><span class='op'>)</span><span class='op'>)</span> <span class='op'>+</span>
+  <span class='fu'>labs</span><span class='op'>(</span>x <span class='op'>=</span> <span class='st'>"n tweets"</span>, fill <span class='op'>=</span> <span class='st'>"Singleton"</span><span class='op'>)</span> <span class='op'>+</span>
+  <span class='fu'>theme</span><span class='op'>(</span>
+    axis.text.y <span class='op'>=</span> <span class='fu'>element_blank</span><span class='op'>(</span><span class='op'>)</span>,
+    axis.ticks.y <span class='op'>=</span> <span class='fu'>element_blank</span><span class='op'>(</span><span class='op'>)</span>,
+    legend.position <span class='op'>=</span> <span class='st'>"bottom"</span><span class='op'>)</span>
+</code></pre>
+</div>
+<div class="figure"><span id="fig:prolific-tweeters"></span>
+<img src="index_files/figure-html5/prolific-tweeters-1.png" alt="Number of #fernfriday tweets per user" width="624" />
+<p class="caption">
+Figure 5: Number of #fernfriday tweets per user
+</p>
+</div>
+</div>
+<p>Wow, some people are really on top of this hashtag! I recognize some of these… <a href="https://twitter.com/ALULUALULU_M">@ALULUALULU_M</a> takes really nice photos, and <a href="https://twitter.com/ja_pelosi">@ja_pelosi</a> has been posting informative threads about one fern family per week at <a href="https://twitter.com/hashtag/51WeeksOfPteridophytes?src=hashtag_click">#51WeeksOfPteridophytes</a>.</p>
+<p>Again we see a similar pattern to species: there are a small number of very regular <a href="https://twitter.com/hashtag/fernfriday?src=hashtag_click">#fernfriday</a> tweeters, then a long tail of those who use the hashtag only occasionally… or just once (ahem)!</p>
+<p>Well I might not have the most <a href="https://twitter.com/hashtag/fernfriday?src=hashtag_click">#fernfriday</a> tweets, but I think I’m definitely in the running for best <a href="https://twitter.com/hashtag/fernfriday?src=hashtag_click">#fernfriday</a> blogpost :)</p>
 <!--------------- appendices ----------------->
 <div class="layout-chunk" data-layout="l-body">
 <h2 class="appendix" id="last-updated">Last updated</h2>
-<p>2022-01-26 10:49:28 JST</p>
+<p>2022-01-27 18:18:11 JST</p>
 <h2 class="appendix" id="details">Details</h2>
 <p><a href="https://github.com/joelnitta/joelnitta-home/tree/main/_posts/2022-01-24_friday-ferns-2021/index.Rmd">source code</a>, <a href="https://github.com/joelnitta/joelnitta-home/tree/main/_renv/_posts/2022-01-24_friday-ferns-2021/renv.lock">R environment</a></p>
 </div>
@@ -1883,6 +1986,7 @@ $ cashtags         &lt;lgl&gt; NA, NA, NA, NA, NA, NA, NA, NA, NA, NA,…</code>
 <li id="fn3" role="doc-endnote"><p>Again, inspired by <a href="https://github.com/hansheng0512/tweets-scrapping-using-python/blob/master/main.py">@hansheng0512</a>’s code<a href="#fnref3" class="footnote-back" role="doc-backlink">↩</a></p></li>
 <li id="fn4" role="doc-endnote"><p>OK it was probably designed more with old biodiversity literature in mind and not twitter, but it works fine either way!<a href="#fnref4" class="footnote-back" role="doc-backlink">↩</a></p></li>
 <li id="fn5" role="doc-endnote"><p>You may need to execute this with <code>./gntagger</code> if you didn’t make <code>gntagger</code> executable everywhere by putting it on your <code>PATH</code><a href="#fnref5" class="footnote-back" role="doc-backlink">↩</a></p></li>
+<li id="fn6" role="doc-endnote"><p>I actually think using a single variable for both taxonomic status (“Accepted”) and rank (“Species”, “Genus”, etc) is rather confusing, and have filed an <a href="https://github.com/gnames/gntagger/issues/68">issue</a> about this<a href="#fnref6" class="footnote-back" role="doc-backlink">↩</a></p></li>
 </ol>
 </section>
 <!--radix_placeholder_article_footer-->
